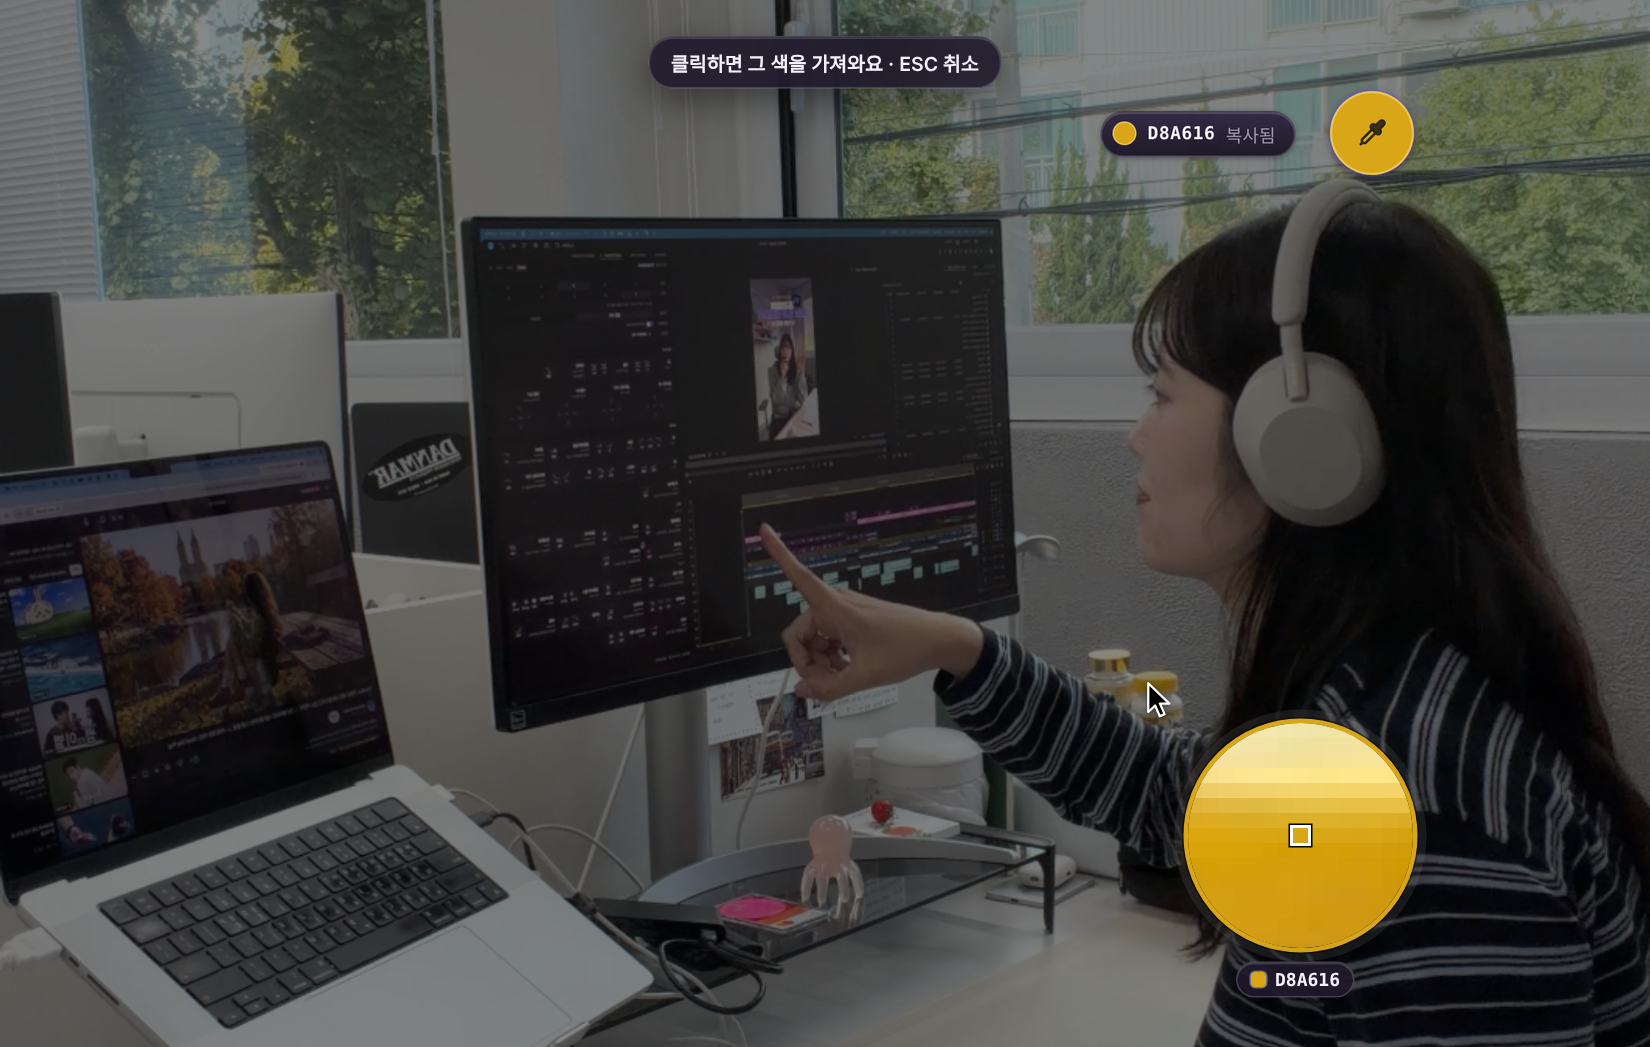
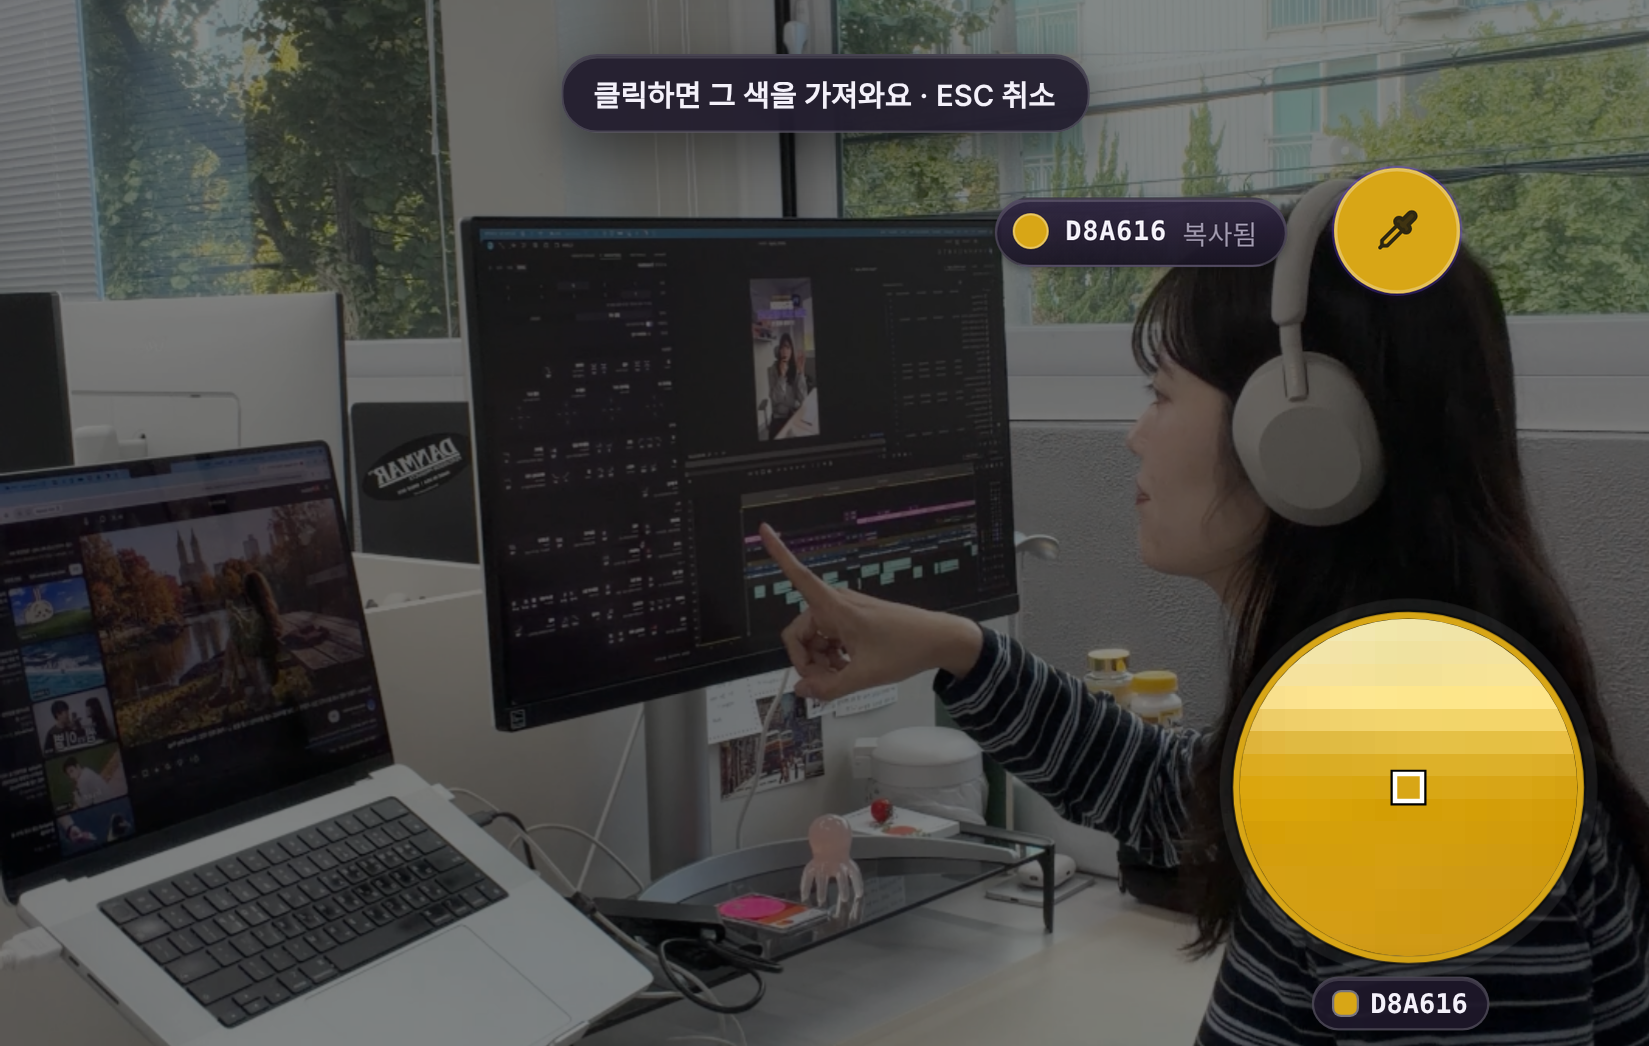
기능 1 예시: 포인터 제거, 확대경 크게
Claude-Session: https://claude.ai/code/session_01EN3DvmfasgiLr1rD7UWmUP

Changed region(s): [[0.7113, 0.5813, 0.9588, 1.0], [0.3402, 0.0306, 0.8969, 0.3059], [0.6804, 0.6424, 0.7113, 0.673]]

diff --git a/index.html b/index.html
@@ -199,7 +199,7 @@
     <h2>이런 걸 할 수 있어요</h2>
     <p class="sub2">컴퓨터에 설치하는 위젯이라<br>캡컷 · 파이널컷 · 프리미어 · 일러스트 등<br>어떤 프로그램을 쓰든 같이 쓸 수 있어요.</p>
     <div class="grid4">
-      <div class="feat"><img class="shot" src="img2/feat1.png?v=3"><div class="n">기능 1</div><h3>어디서든 색 수집, 자동 복사</h3><p>위젯을 누르거나 단축키를 누르면 확대경이 떠요.<br>원하는 곳을 찍는 순간 컬러값이 복사돼요.</p></div>
+      <div class="feat"><img class="shot" src="img2/feat1.png?v=4"><div class="n">기능 1</div><h3>어디서든 색 수집, 자동 복사</h3><p>위젯을 누르거나 단축키를 누르면 확대경이 떠요.<br>원하는 곳을 찍는 순간 컬러값이 복사돼요.</p></div>
       <div class="feat"><img class="shot c" src="img2/img.png"><div class="n">기능 2</div><h3>이미지·화면에서 색 조합 뽑기</h3><p>화면을 캡처하거나 이미지를 넣으면<br>추천 조합 5색과 많이 쓰인 색 8개를 뽑아줘요.<br>바로 프로젝트에 저장할 수 있어요.</p></div>
       <div class="feat"><img class="shot c" src="img2/f3.png"><div class="n">기능 3</div><h3>0202 기본 컬러 조합</h3><p>예능 자막, 정보·뉴스 그래픽, 브이로그 감성,<br>파스텔, 시네마틱, 레트로·Y2K, 무채색까지<br>바로 쓸 수 있는 조합이 들어 있어요.</p></div>
       <div class="feat"><img class="shot" src="img2/feat4.png"><div class="n">기능 4</div><h3>프로젝트별 관리 · 팀 공유</h3><p>클라이언트·채널별 폴더에 색을 모아두고,<br>컬러칩 이미지나 공유 코드로 팀원에게 넘겨줘요.<br>폴더 이름까지 그대로 가요.</p></div>
@@ -221,7 +221,7 @@
     <h2>사용 방법</h2>
     <p class="sub2">자주 쓰는 것부터 순서대로 모았어요.</p>
     <div class="use">
-      <div class="row"><div class="im "><img src="img2/loupe.png?v=3"></div><div><h3>🎯 색 뽑기</h3><ol><li>화면의 동그란 위젯 클릭<br>또는 단축키 <b>⌥⌘C</b> (윈도우 <b>Ctrl+Alt+C</b>)</li><li>확대경이 뜨면 원하는 곳 클릭</li><li>컬러값이 바로 복사돼요 · 취소는 Esc</li></ol></div></div>
+      <div class="row"><div class="im "><img src="img2/loupe.png?v=4"></div><div><h3>🎯 색 뽑기</h3><ol><li>화면의 동그란 위젯 클릭<br>또는 단축키 <b>⌥⌘C</b> (윈도우 <b>Ctrl+Alt+C</b>)</li><li>확대경이 뜨면 원하는 곳 클릭</li><li>컬러값이 바로 복사돼요 · 취소는 Esc</li></ol></div></div>
       <div class="row"><div class="im "><img src="img2/img.png"></div><div><h3>🖼 화면 캡처·이미지로<br>색 조합 뽑기</h3><ol><li><b>화면 영역 캡처</b> → 원하는 영역 드래그</li><li>이미지 파일은 <b>이미지에서 색 추출</b><br>또는 팔레트에 끌어놓기</li><li>추천 조합을 프로젝트에 저장</li></ol></div></div>
       <div class="row"><div class="im "><img src="img2/drag.png"></div><div><h3>✋ 드래그앤드롭으로 저장</h3><ol><li>최근 색을 프로젝트 폴더로 끌어놓기</li><li>폴더 안에서 끌면 순서 변경</li><li><b>⌥(Alt)</b>를 누른 채 끌면 복제</li></ol></div></div>
       <div class="row"><div class="im "><img src="img2/plus.png"></div><div><h3>➕ 지금 색 바로 넣기</h3><ol><li>폴더 맨 끝 점선 <b>＋</b> 클릭</li><li>현재 색이 맨 앞에 추가돼요</li><li>＋를 우클릭하면 색 고르기 창</li></ol></div></div>

diff --git a/preview/index.html b/preview/index.html
@@ -14,5 +14,5 @@ h1{font-size:22px;line-height:1.4;margin-bottom:14px}.pr s{color:#aaa;margin-rig
 <header>공이공이 프로덕션 <span style="font-weight:400;color:#999;font-size:13px">· 상세페이지 미리보기</span></header>
 <div class="top"><img src="../store/thumbnail.png"><div><h1>0202Swatch - 어디서든 색 뽑는 스와치 위젯 (맥/윈도우)</h1><div class="pr"><s>9,900원</s><b>4,900원</b></div><div class="btn">구매하기</div></div></div>
 <div class="tabs"><span>상세정보</span></div>
-<div class="detail"><img src="detail.jpg?v=5"></div>
+<div class="detail"><img src="detail.jpg?v=6"></div>
 </body></html>
